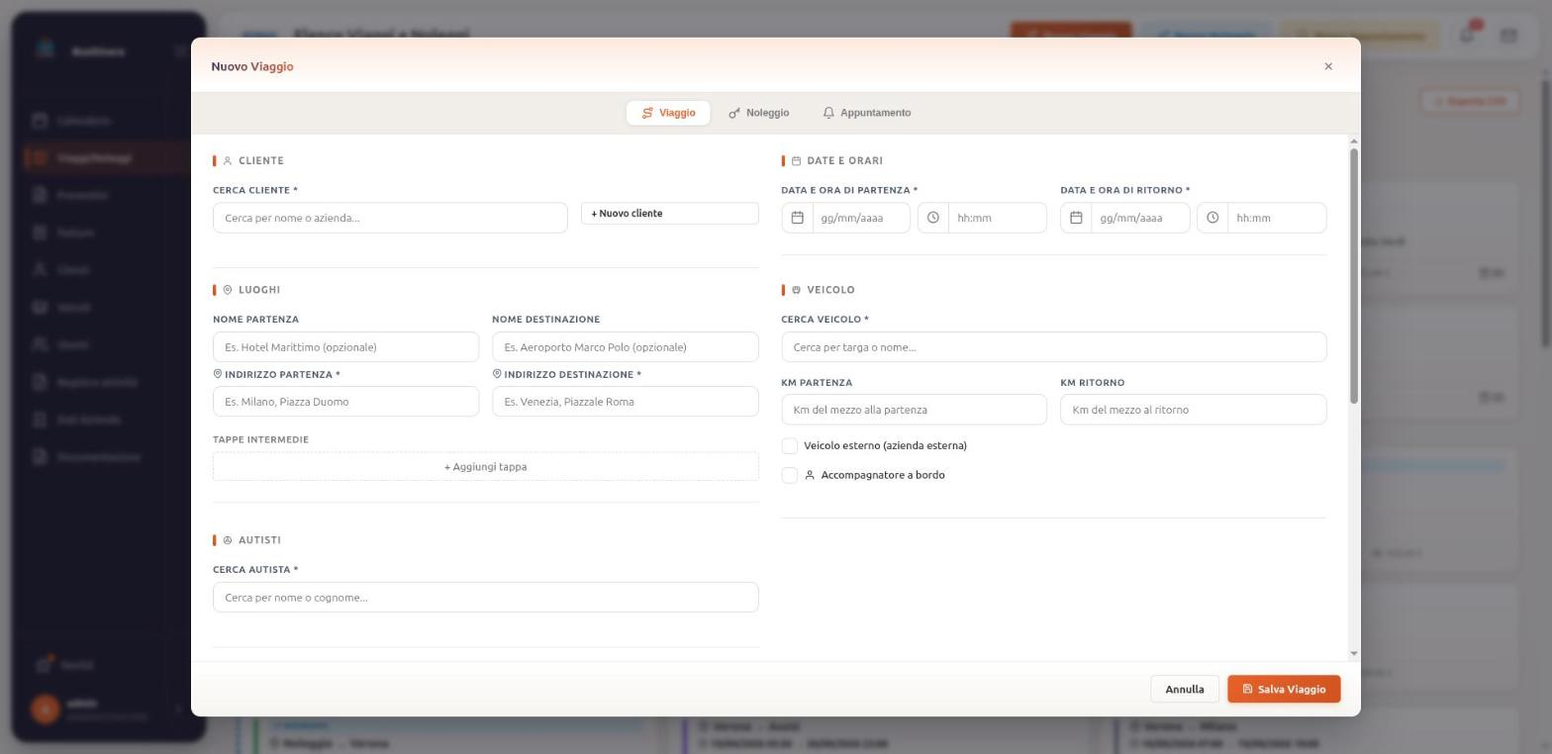
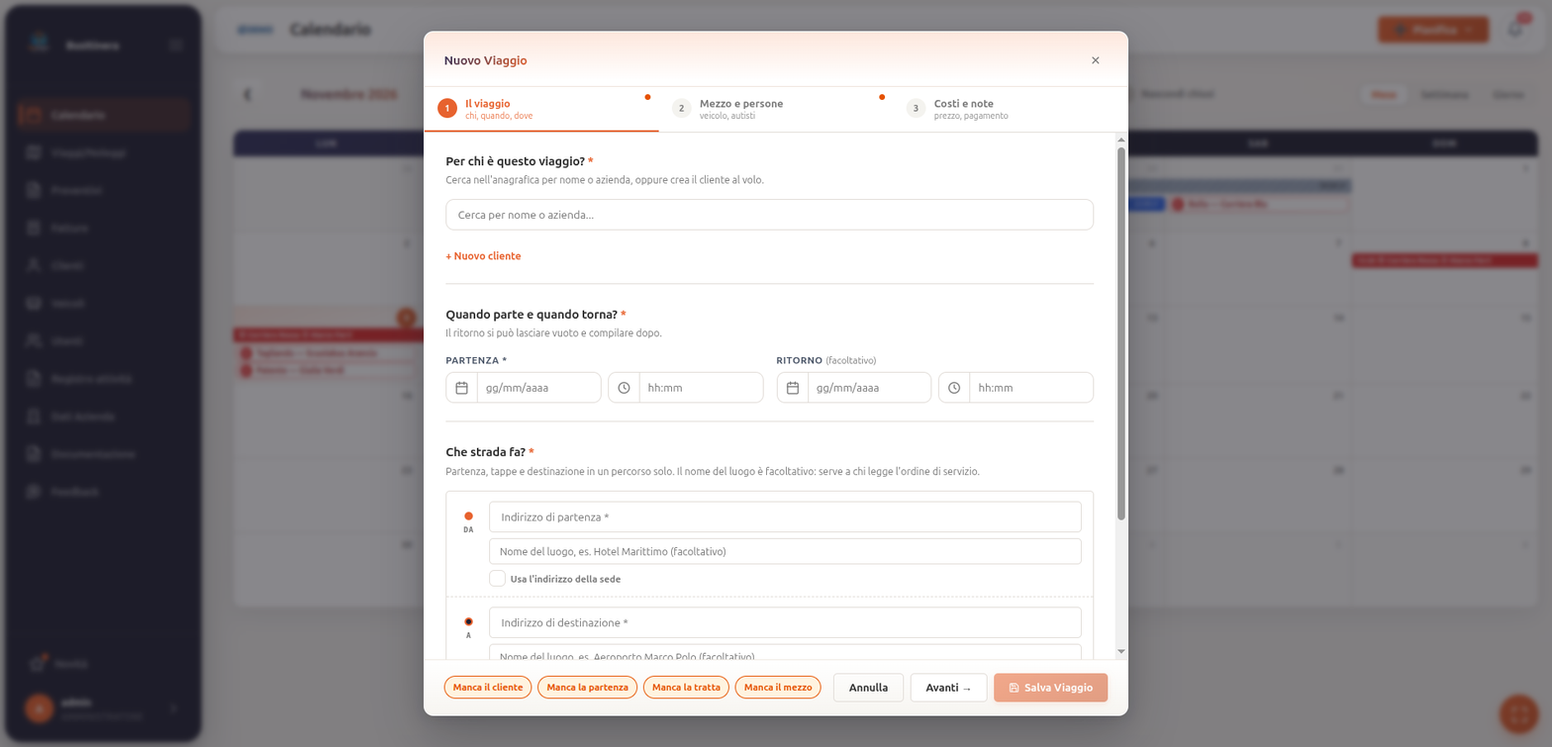
feat: update functionality descriptions and add new features for version 1.38

diff --git a/public/funzionalita.html b/public/funzionalita.html
@@ -353,9 +353,13 @@ svg.ic{width:var(--isz,22px);height:var(--isz,22px);flex:none;display:block}
     <div class="grid2">
       <div class="card rv">
         <div class="card-ic ic-o"><svg class="ic" viewBox="0 0 24 24" fill="none" stroke="currentColor" stroke-width="1.7" stroke-linecap="round" stroke-linejoin="round" aria-hidden="true"><rect x="3" y="3.5" width="18" height="13" rx="3"/><path d="M3 10h18M7.5 16.5v1.1M16.5 16.5v1.1"/><circle cx="7.5" cy="19" r="1.5"/><circle cx="16.5" cy="19" r="1.5"/></svg></div>
-        <h3>Creare un viaggio in un colpo solo</h3>
-        <p>Cliente, data e ora, luogo di ritiro, tappe, mezzo, autisti e prezzo: tutto in un unico modulo, senza saltare da una schermata all'altra.</p>
+        <h3>Creare un viaggio in tre passi</h3>
+        <p>Cliente, date e percorso · mezzo e persone · costi e note. Tre schede, non una procedura guidata: restano tutte cliccabili e <strong>Salva è sempre a portata</strong>, così in modifica si va diretti al passo che serve.</p>
         <ul class="clist">
+          <li><svg class="tick-o" width="16" height="16" viewBox="0 0 24 24" fill="none" stroke="currentColor" stroke-width="3" stroke-linecap="round"><path d="M20 6 9 17l-5-5"/></svg>Partenza, tappe e destinazione sono un percorso solo, incolonnato, con le tappe in mezzo come nel viaggio vero</li>
+          <li><svg class="tick-o" width="16" height="16" viewBox="0 0 24 24" fill="none" stroke="currentColor" stroke-width="3" stroke-linecap="round"><path d="M20 6 9 17l-5-5"/></svg>Una barra in fondo riepiloga cliente, data, tratta, mezzo e prezzo mentre scrivi e segna in giallo quello che manca: non lo scopri premendo Salva</li>
+          <li><svg class="tick-o" width="16" height="16" viewBox="0 0 24 24" fill="none" stroke="currentColor" stroke-width="3" stroke-linecap="round"><path d="M20 6 9 17l-5-5"/></svg>Quello che serve di rado — mezzo di un'altra azienda, accompagnatore, chilometri, nota privata — sta dietro un interruttore, e si apre da sé sui viaggi che quei dati ce li hanno</li>
+          <li><svg class="tick-o" width="16" height="16" viewBox="0 0 24 24" fill="none" stroke="currentColor" stroke-width="3" stroke-linecap="round"><path d="M20 6 9 17l-5-5"/></svg>Un interruttore sotto le tappe decide se l'autista avrà le indicazioni stradali su quel percorso: Maps calcola per un'automobile e non conosce sagoma e peso di una corriera, quindi di serie è spento</li>
           <li><svg class="tick-o" width="16" height="16" viewBox="0 0 24 24" fill="none" stroke="currentColor" stroke-width="3" stroke-linecap="round"><path d="M20 6 9 17l-5-5"/></svg>Gli indirizzi si completano da soli mentre scrivi, come su Google Maps</li>
           <li><svg class="tick-o" width="16" height="16" viewBox="0 0 24 24" fill="none" stroke="currentColor" stroke-width="3" stroke-linecap="round"><path d="M20 6 9 17l-5-5"/></svg>Aggiungi tutte le tappe intermedie che vuoi, con orario di arrivo e di ripartenza</li>
           <li><svg class="tick-o" width="16" height="16" viewBox="0 0 24 24" fill="none" stroke="currentColor" stroke-width="3" stroke-linecap="round"><path d="M20 6 9 17l-5-5"/></svg>Partenza o arrivo in sede: una spunta compila l&rsquo;indirizzo al posto tuo</li>
@@ -382,7 +386,7 @@ svg.ic{width:var(--isz,22px);height:var(--isz,22px);flex:none;display:block}
         <h3>Il dettaglio del viaggio, sempre a portata</h3>
         <p>Selezioni un viaggio e vedi tutto: percorso, mezzo, cliente e conti. Con pochi click aggiorni lo stato senza rifare il modulo.</p>
         <ul class="clist">
-          <li><svg class="tick-v" width="16" height="16" viewBox="0 0 24 24" fill="none" stroke="currentColor" stroke-width="3" stroke-linecap="round"><path d="M20 6 9 17l-5-5"/></svg>Percorso apribile su Google Maps per la navigazione</li>
+          <li><svg class="tick-v" width="16" height="16" viewBox="0 0 24 24" fill="none" stroke="currentColor" stroke-width="3" stroke-linecap="round"><path d="M20 6 9 17l-5-5"/></svg>Percorso apribile su Google Maps, se le indicazioni sono state accese per quel viaggio</li>
           <li><svg class="tick-v" width="16" height="16" viewBox="0 0 24 24" fill="none" stroke="currentColor" stroke-width="3" stroke-linecap="round"><path d="M20 6 9 17l-5-5"/></svg>Riepilogo economico: prezzo base, extra e totale</li>
           <li><svg class="tick-v" width="16" height="16" viewBox="0 0 24 24" fill="none" stroke="currentColor" stroke-width="3" stroke-linecap="round"><path d="M20 6 9 17l-5-5"/></svg>Segni con un tocco: fatturato, pagato, ordine di servizio creato</li>
           <li><svg class="tick-v" width="16" height="16" viewBox="0 0 24 24" fill="none" stroke="currentColor" stroke-width="3" stroke-linecap="round"><path d="M20 6 9 17l-5-5"/></svg>Telefono ed email del cliente cliccabili</li>
@@ -393,7 +397,8 @@ svg.ic{width:var(--isz,22px);height:var(--isz,22px);flex:none;display:block}
         <h3>Non solo viaggi: noleggi e appuntamenti</h3>
         <p>Gestisci nello stesso posto i noleggi dei mezzi e gli appuntamenti (revisioni, manutenzioni), con le stesse protezioni anti-sovrapposizione.</p>
         <ul class="clist">
-          <li><svg class="tick-g" width="16" height="16" viewBox="0 0 24 24" fill="none" stroke="currentColor" stroke-width="3" stroke-linecap="round"><path d="M20 6 9 17l-5-5"/></svg>Noleggi con ritiro e riconsegna: date, orari, luoghi, contratto e prezzo</li>
+          <li><svg class="tick-g" width="16" height="16" viewBox="0 0 24 24" fill="none" stroke="currentColor" stroke-width="3" stroke-linecap="round"><path d="M20 6 9 17l-5-5"/></svg>Noleggi con ritiro e riconsegna: date, orari, luoghi, contratto e prezzo, negli stessi tre passi del viaggio e con la stessa barra di riepilogo</li>
+          <li><svg class="tick-g" width="16" height="16" viewBox="0 0 24 24" fill="none" stroke="currentColor" stroke-width="3" stroke-linecap="round"><path d="M20 6 9 17l-5-5"/></svg>I chilometri del noleggio stanno dietro un interruttore, perché di solito si compilano alla riconsegna; scegliendo il mezzo si precompilano da soli e l'interruttore si apre</li>
           <li><svg class="tick-g" width="16" height="16" viewBox="0 0 24 24" fill="none" stroke="currentColor" stroke-width="3" stroke-linecap="round"><path d="M20 6 9 17l-5-5"/></svg>Senza conducente: registri chi è autorizzato a guidare, con i dati della patente</li>
           <li><svg class="tick-g" width="16" height="16" viewBox="0 0 24 24" fill="none" stroke="currentColor" stroke-width="3" stroke-linecap="round"><path d="M20 6 9 17l-5-5"/></svg>Livello di carburante alla consegna, per sapere a quanto va riconsegnato</li>
           <li><svg class="tick-g" width="16" height="16" viewBox="0 0 24 24" fill="none" stroke="currentColor" stroke-width="3" stroke-linecap="round"><path d="M20 6 9 17l-5-5"/></svg>Un mezzo a noleggio non risulta libero per un viaggio nello stesso periodo</li>
@@ -420,7 +425,7 @@ svg.ic{width:var(--isz,22px);height:var(--isz,22px);flex:none;display:block}
     <div class="center" style="margin-bottom:56px">
       <div class="eyebrow or">Preventivi</div>
       <h2 class="h2 rv">Dal preventivo alla conferma d'ordine, senza riscrivere nulla</h2>
-      <p class="sub rv d1">Prepari l'offerta al cliente, la stampi come documento professionale e, quando la accetta, la trasformi nel viaggio reale con un clic.</p>
+      <p class="sub rv d1">Prepari l'offerta al cliente, la stampi come documento professionale e, quando la accetta, la trasformi nel viaggio reale con un clic. Il modulo è diviso negli stessi tre passi degli altri: <strong>Il cliente · I viaggi (o I noleggi) · Costi e validità</strong>.</p>
     </div>
     <div class="grid2">
       <div class="card rv">
@@ -432,6 +437,7 @@ svg.ic{width:var(--isz,22px);height:var(--isz,22px);flex:none;display:block}
           <li><svg class="tick-o" width="16" height="16" viewBox="0 0 24 24" fill="none" stroke="currentColor" stroke-width="3" stroke-linecap="round"><path d="M20 6 9 17l-5-5"/></svg>Ricerca per numero, cliente o tratta, con filtro per stato</li>
           <li><svg class="tick-o" width="16" height="16" viewBox="0 0 24 24" fill="none" stroke="currentColor" stroke-width="3" stroke-linecap="round"><path d="M20 6 9 17l-5-5"/></svg>Cliente scelto dall'anagrafica, senza riscrivere i dati</li>
           <li><svg class="tick-o" width="16" height="16" viewBox="0 0 24 24" fill="none" stroke="currentColor" stroke-width="3" stroke-linecap="round"><path d="M20 6 9 17l-5-5"/></svg>Preventivo multi-viaggio: più tratte in un unico documento, ognuna con i suoi servizi</li>
+          <li><svg class="tick-o" width="16" height="16" viewBox="0 0 24 24" fill="none" stroke="currentColor" stroke-width="3" stroke-linecap="round"><path d="M20 6 9 17l-5-5"/></svg>La scelta fra viaggio e noleggio sta sopra le schede e cambia le etichette del secondo passo: è la natura del documento, non uno dei passi</li>
         </ul>
       </div>
       <div class="card rv d1">
@@ -527,7 +533,7 @@ svg.ic{width:var(--isz,22px);height:var(--isz,22px);flex:none;display:block}
         <h2 class="h2">Il telefono diventa il cruscotto, per chi guida e per chi gestisce</h2>
         <p class="sub">Due viste dedicate allo schermo piccolo: l&rsquo;autista vede i propri viaggi, titolari e operatori la giornata dell&rsquo;azienda. Semplici, pulite, sempre in tasca.</p>
         <div class="dlist">
-          <div class="ditem"><div class="dicon di-g"><svg class="ic" viewBox="0 0 24 24" fill="none" stroke="currentColor" stroke-width="1.7" stroke-linecap="round" stroke-linejoin="round" aria-hidden="true"><circle cx="12" cy="12" r="8.6"/><path d="M10.3 8.9 15.3 12l-5 3.1z"/></svg></div><div><h4>Il viaggio in corso, evidenziato</h4><p>La tappa di partenza, le soste e l'arrivo in ordine. Ogni indirizzo è un pulsante che apre la navigazione su Google Maps.</p></div></div>
+          <div class="ditem"><div class="dicon di-g"><svg class="ic" viewBox="0 0 24 24" fill="none" stroke="currentColor" stroke-width="1.7" stroke-linecap="round" stroke-linejoin="round" aria-hidden="true"><circle cx="12" cy="12" r="8.6"/><path d="M10.3 8.9 15.3 12l-5 3.1z"/></svg></div><div><h4>Il viaggio in corso, evidenziato</h4><p>La tappa di partenza, le soste e l'arrivo in ordine. Se chi ha pianificato il viaggio ha acceso le indicazioni, sotto ogni luogo compare un pulsante «Indicazioni Maps» che apre la navigazione.</p></div></div>
           <div class="ditem"><div class="dicon di-o"><svg class="ic" viewBox="0 0 24 24" fill="none" stroke="currentColor" stroke-width="1.7" stroke-linecap="round" stroke-linejoin="round" aria-hidden="true"><circle cx="12" cy="13.6" r="7.5"/><path d="M12 10v3.6l2.3 1.4"/><path d="M9.4 2.6h5.2"/></svg></div><div><h4>Conto alla rovescia sul prossimo viaggio</h4><p>“In partenza tra 45 minuti”, aggiornato in automatico. L'autista sa sempre quando muoversi.</p></div></div>
           <div class="ditem"><div class="dicon di-v"><svg class="ic" viewBox="0 0 24 24" fill="none" stroke="currentColor" stroke-width="1.7" stroke-linecap="round" stroke-linejoin="round" aria-hidden="true"><rect x="4.5" y="10.4" width="15" height="10.6" rx="2.6"/><path d="M8 10.4V7.6a4 4 0 0 1 8 0v2.8M12 14.6v2.4"/></svg></div><div><h4>Solo ciò che gli serve</h4><p>Prezzi, pagamenti e dati riservati non sono visibili all'autista. Meno telefonate del tipo “dove devo andare?” e “a che ora?”.</p></div></div>
           <div class="ditem"><div class="dicon di-b"><svg class="ic" viewBox="0 0 24 24" fill="none" stroke="currentColor" stroke-width="1.7" stroke-linecap="round" stroke-linejoin="round" aria-hidden="true"><path d="M16.3 2.9 21.1 7.7a1.3 1.3 0 0 1 0 1.9L9.6 21.1a1.3 1.3 0 0 1-1.9 0L2.9 16.3a1.3 1.3 0 0 1 0-1.9L14.4 2.9a1.3 1.3 0 0 1 1.9 0z"/><path d="M12.6 4.7 14.9 7M9.9 7.4l2.3 2.3M7.2 10.1l2.3 2.3M4.5 12.8l2.3 2.3"/></svg></div><div><h4>Ordine di servizio e chilometri, dal telefono</h4><p>Per i viaggi in corso l’autista apre l’ordine di servizio e inserisce i chilometri di partenza e ritorno: finiscono subito nel viaggio, senza passare dall’ufficio.</p></div></div>
@@ -547,7 +553,7 @@ svg.ic{width:var(--isz,22px);height:var(--isz,22px);flex:none;display:block}
           </div>
           <figcaption>
             <div class="pd-t">La vista dell&rsquo;autista</div>
-            <div class="pd-s">Vista Giorno: il viaggio in corso in evidenza, gli indirizzi che aprono il navigatore, i chilometri e l&rsquo;ordine di servizio. Mese e settimana con tutti i viaggi, e un tocco per ingrandire.</div>
+            <div class="pd-s">Vista Giorno: il viaggio in corso in evidenza, i pulsanti delle indicazioni dove sono stati accesi, i chilometri e l&rsquo;ordine di servizio. Mese e settimana con tutti i viaggi, e un tocco per ingrandire.</div>
           </figcaption>
         </figure>
         <figure>
@@ -758,7 +764,7 @@ svg.ic{width:var(--isz,22px);height:var(--isz,22px);flex:none;display:block}
     <div class="center" style="margin-bottom:56px">
       <div class="eyebrow gr">Carburante</div>
       <h2 class="h2 rv">Il pieno lo registra chi lo fa, dal distributore</h2>
-      <p class="sub rv d1">Gli scontrini finiscono in un cassetto e qualcuno li ribatte settimane dopo, quando non si ricorda più a quale viaggio appartenessero. Qui il pieno si segna mentre si è ancora alla pompa, e i conti si fanno da soli.</p>
+      <p class="sub rv d1">Gli scontrini finiscono in un cassetto e qualcuno li ribatte settimane dopo, quando non si ricorda più a quale viaggio appartenessero. Qui il pieno si segna mentre si è ancora alla pompa, e i conti si fanno da soli. Chi ha la cisterna in sede fa ancora meno: scrive i litri, e il costo lo calcola il gestionale.</p>
     </div>
     <div class="grid2">
       <div class="card rv">
@@ -770,6 +776,8 @@ svg.ic{width:var(--isz,22px);height:var(--isz,22px);flex:none;display:block}
           <li><svg class="tick-g" width="16" height="16" viewBox="0 0 24 24" fill="none" stroke="currentColor" stroke-width="3" stroke-linecap="round"><path d="M20 6 9 17l-5-5"/></svg>Il prezzo al litro si calcola mentre scrivi, con un avviso se esce da ogni scala plausibile — è il modo più veloce per vedere una virgola sbagliata</li>
           <li><svg class="tick-g" width="16" height="16" viewBox="0 0 24 24" fill="none" stroke="currentColor" stroke-width="3" stroke-linecap="round"><path d="M20 6 9 17l-5-5"/></svg>Se al distributore la rete non c'è, quello che hai scritto resta come bozza sul telefono e lo ritrovi con «Riprendi»</li>
           <li><svg class="tick-g" width="16" height="16" viewBox="0 0 24 24" fill="none" stroke="currentColor" stroke-width="3" stroke-linecap="round"><path d="M20 6 9 17l-5-5"/></svg>Sotto il modulo ci sono gli ultimi tre pieni di quel mezzo, chiunque li abbia fatti: serve a non rifare un pieno appena fatto da un collega</li>
+          <li><svg class="tick-g" width="16" height="16" viewBox="0 0 24 24" fill="none" stroke="currentColor" stroke-width="3" stroke-linecap="round"><path d="M20 6 9 17l-5-5"/></svg>Spunta <strong>«Rifornimento in sede»</strong> per chi ha la cisterna: spariscono costo e distributore, restano chilometri e litri. Il prezzo è quello dichiarato nei dati dell'azienda, scelto in base all'alimentazione del mezzo</li>
+          <li><svg class="tick-g" width="16" height="16" viewBox="0 0 24 24" fill="none" stroke="currentColor" stroke-width="3" stroke-linecap="round"><path d="M20 6 9 17l-5-5"/></svg>La spunta compare solo dove un prezzo c'è: un prezzo lasciato vuoto vale «in sede questo carburante non si eroga»</li>
         </ul>
       </div>
       <div class="card rv d1">
@@ -786,7 +794,9 @@ svg.ic{width:var(--isz,22px);height:var(--isz,22px);flex:none;display:block}
     </div>
     <figure class="shot shot-single rv d2" style="max-width:860px"><img class="zoom" src="images/rifornimenti.png" data-cap="Veicoli &rarr; Rifornimenti: spesa, prezzo medio, chilometri e consumi del periodo" alt="Storico dei rifornimenti con i conti del periodo" loading="lazy"><figcaption>Veicoli &rarr; Rifornimenti: i conti del periodo in cima, ogni pieno con imponibile, prezzo al litro e servizio collegato</figcaption></figure>
 
-    <p class="center rv d2" style="margin-top:36px;color:var(--muted);font-size:.95rem;max-width:720px;margin-left:auto;margin-right:auto">Un autista corregge i propri rifornimenti per <strong style="color:var(--ink)">48 ore</strong>; dopo, quella riga è un dato su cui qualcuno ha fatto i conti e serve un amministratore. Ogni inserimento, modifica ed eliminazione resta nel registro attività.</p>
+    <p class="center rv d2" style="margin-top:36px;color:var(--muted);font-size:.95rem;max-width:760px;margin-left:auto;margin-right:auto"><strong style="color:var(--ink)">Il prezzo del carburante in sede non arriva al telefono dell'autista.</strong> Non è nascosto in interfaccia, dove basterebbe un po' di curiosità per leggerlo: non viene proprio mandato. L'autista manda litri e spunta, il conto lo fa il server, e un costo mandato lo stesso viene ignorato — così non lo si può nemmeno dedurre a tentativi. L'amministratore invece vede tutto: costo, imponibile e prezzo al litro.</p>
+
+    <p class="center rv d2" style="margin-top:18px;color:var(--muted);font-size:.95rem;max-width:720px;margin-left:auto;margin-right:auto">Un autista corregge i propri rifornimenti per <strong style="color:var(--ink)">48 ore</strong>; dopo, quella riga è un dato su cui qualcuno ha fatto i conti e serve un amministratore. Ogni inserimento, modifica ed eliminazione resta nel registro attività.</p>
   </div>
 </section>
 
@@ -850,7 +860,9 @@ svg.ic{width:var(--isz,22px);height:var(--isz,22px);flex:none;display:block}
         <h3>I cartelli si fanno per tutta la flotta in una volta</h3>
         <p>Perché il caso vero non è stampare un cartello: è attrezzare la flotta una volta sola, col laminatore acceso.</p>
         <ul class="clist">
-          <li><svg class="tick-b" width="16" height="16" viewBox="0 0 24 24" fill="none" stroke="currentColor" stroke-width="3" stroke-linecap="round"><path d="M20 6 9 17l-5-5"/></svg>Spunti i mezzi — o tutti — e ne esce un documento <strong>A5, una pagina per mezzo</strong>, da stampare o salvare in PDF</li>
+          <li><svg class="tick-b" width="16" height="16" viewBox="0 0 24 24" fill="none" stroke="currentColor" stroke-width="3" stroke-linecap="round"><path d="M20 6 9 17l-5-5"/></svg>Spunti i mezzi — o tutti — e ne esce un documento <strong>A4, una pagina per mezzo</strong>, da stampare o salvare in PDF</li>
+          <li><svg class="tick-b" width="16" height="16" viewBox="0 0 24 24" fill="none" stroke="currentColor" stroke-width="3" stroke-linecap="round"><path d="M20 6 9 17l-5-5"/></svg>Il QR è grande 88mm, perché la distanza vera da cui un passeggero seduto lo guarda è due metri. Il logo dell'azienda è in evidenza e il nome del mezzo si legge in basso, per chi attacca i cartelli e non deve sbagliare bus</li>
+          <li><svg class="tick-b" width="16" height="16" viewBox="0 0 24 24" fill="none" stroke="currentColor" stroke-width="3" stroke-linecap="round"><path d="M20 6 9 17l-5-5"/></svg>Un interruttore sulla riga di ogni mezzo sospende la raccolta solo per quello: il bus in officina, quello appena venduto, quello col cartello staccato. Quello generale resta e comanda su tutto</li>
           <li><svg class="tick-b" width="16" height="16" viewBox="0 0 24 24" fill="none" stroke="currentColor" stroke-width="3" stroke-linecap="round"><path d="M20 6 9 17l-5-5"/></svg>Il cartello porta il nome e il logo della tua azienda, la domanda grande e tre righe che smontano i motivi per cui di solito una recensione non la si lascia</li>
           <li><svg class="tick-b" width="16" height="16" viewBox="0 0 24 24" fill="none" stroke="currentColor" stroke-width="3" stroke-linecap="round"><path d="M20 6 9 17l-5-5"/></svg>L'elenco è anche una diagnosi: dice quali cartelli stanno portando voti e quali no. «Creato, nessuna scansione» dopo settimane vuol dire quasi sempre che si è staccato</li>
           <li><svg class="tick-b" width="16" height="16" viewBox="0 0 24 24" fill="none" stroke="currentColor" stroke-width="3" stroke-linecap="round"><path d="M20 6 9 17l-5-5"/></svg>Se un codice finisce dove non deve, lo rigeneri: i cartelli vecchi di quel mezzo smettono di funzionare, i voti già ricevuti restano</li>

diff --git a/public/novita.html b/public/novita.html
@@ -330,6 +330,91 @@ svg.ic{width:var(--isz,22px);height:var(--isz,22px);flex:none;display:block}
       <li class="tl-item rv">
         <div class="tl-marker"></div>
         <div class="card tl-card">
+          <div class="tl-head"><span class="tl-ver">Versione 1.38</span><span class="tl-date">Novembre 2026</span></div>
+          <h3>Le indicazioni stradali si accendono un viaggio alla volta</h3>
+          <p>Sul telefono dell'autista l'indirizzo di destinazione era un collegamento: si toccava e si apriva Google Maps. Ma il percorso che Maps calcola è quello di un'automobile, e non sa né quanto è alta né quanto pesa una corriera. Chi lo segue e rovina il mezzo poi dice, con una certa ragione, che la strada gliel'ha data il gestionale. Ora quel collegamento non nasce più da solo: lo si accende viaggio per viaggio, quando il percorso è adatto al mezzo che lo fa.</p>
+          <ul class="clist">
+            <li><strong>Un interruttore nel modulo del viaggio, subito sotto le tappe</strong>, spento di serie. Chi pianifica il viaggio è anche chi sa se quella strada una corriera la può fare: la decisione sta lì, non nelle impostazioni generali</li>
+            <li><strong>Acceso, sul telefono compare un pulsante «Indicazioni Maps»</strong>: uno nella scheda del viaggio, verso la destinazione, e uno per ogni punto nella vista del viaggio in corso, che è quella dove l'autista naviga davvero tappa per tappa</li>
+            <li><strong>Il nome del luogo non è più cliccabile in nessun caso</strong>: o non c'è collegamento, o c'è un pulsante che dice cosa fa. Un pulsante con scritto «Indicazioni Maps» non si preme credendo di toccare un'etichetta</li>
+            <li><strong>Spento, il collegamento non esiste nemmeno in ufficio</strong>: toglierlo solo all'autista avrebbe lasciato in piedi la strada per cui il percorso arriva comunque, copiato da una schermata del gestionale</li>
+            <li><strong>I viaggi già in archivio restano senza indicazioni</strong> finché qualcuno non li apre e accende l'interruttore. È il valore prudente applicato allo storico, non una dimenticanza</li>
+          </ul>
+        </div>
+      </li>
+
+      <li class="tl-item rv">
+        <div class="tl-marker"></div>
+        <div class="card tl-card">
+          <div class="tl-head"><span class="tl-ver">Versione 1.37</span><span class="tl-date">Novembre 2026</span></div>
+          <h3>Il cartello del QR diventa A4, e la raccolta si spegne un mezzo alla volta</h3>
+          <p>Due cose che la raccolta dei feedback, nata nella 1.32, non aveva ancora: un cartello che si legga dal fondo del pullman e un modo di sospendere un singolo mezzo. Prima l'unico comando era generale, e per smettere di raccogliere da un bus in officina o appena venduto bisognava spegnere tutta la flotta.</p>
+          <ul class="clist">
+            <li><strong>Un interruttore sulla riga di ogni mezzo</strong>, nella scheda Cartelli QR. Quello generale resta e comanda su tutto: spento, non si raccoglie da nessuna parte. Il nuovo è più fine, per il mezzo fermo, venduto o col cartello staccato</li>
+            <li><strong>Il cartello passa da A5 ad A4</strong>: il QR era 66mm e da due metri — la distanza vera da cui un passeggero seduto lo guarda — era al limite del leggibile. Ora è 88mm, e il codice è generato più grande alla fonte, perché ingrandire un'immagine piccola la sgrana</li>
+            <li><strong>Il logo dell'azienda è due volte e mezza più grande</strong>, non solo scalato col foglio: in A5 era una miniatura in un angolo</li>
+            <li><strong>Il nome del mezzo in basso a sinistra si legge davvero</strong>: era grigio chiaro e piccolo come la firma dell'app, e serve a chi attacca i cartelli per non sbagliare bus</li>
+            <li><strong>Un cartello, una pagina</strong>: prima ne usciva una seconda bianca dietro ognuno</li>
+            <li><strong>Un mezzo sospeso risponde come un mezzo che non esiste.</strong> Se avesse risposto in modo diverso, chi prova codici a caso avrebbe saputo di averne trovato uno buono</li>
+          </ul>
+        </div>
+      </li>
+
+      <li class="tl-item rv">
+        <div class="tl-marker"></div>
+        <div class="card tl-card">
+          <div class="tl-head"><span class="tl-ver">Versione 1.36</span><span class="tl-date">Novembre 2026</span></div>
+          <h3>Il carburante di casa: l'autista scrive i litri, il costo lo fa il gestionale</h3>
+          <p>Chi ha la cisterna in sede si trovava davanti un modulo che chiedeva il costo e il distributore, cioè due cose che in sede non esistono o che l'autista non deve sapere. Ora c'è una spunta: l'autista mette i chilometri e i litri, il prezzo al litro è quello dichiarato nei dati dell'azienda e il conto lo fa il programma.</p>
+          <ul class="clist">
+            <li><strong>Un riquadro nuovo nei Dati Azienda</strong>, «Siti e carburante in sede», con sito web e link del tracking — che sono indirizzi di servizi esterni, non recapiti — e i quattro prezzi: benzina, diesel e GPL in euro al litro, elettrico in euro al kWh</li>
+            <li><strong>L'alimentazione diventa un dato del mezzo</strong> (diesel, benzina, GPL, elettrico), accanto al tipo: è lei a decidere quale dei quattro prezzi vale per quel veicolo</li>
+            <li><strong>Spunta «Rifornimento in sede» nel modulo di rifornimento</strong>: spuntandola spariscono Costo e Distributore, perché il primo lo calcola il gestionale e il secondo in sede è la sede. Restano i chilometri e i litri</li>
+            <li><strong>Se per quell'alimentazione non c'è un prezzo, la spunta non compare.</strong> Un prezzo lasciato vuoto vale «in sede questo carburante non si eroga», e i mezzi senza alimentazione dichiarata non la vedono affatto</li>
+            <li><strong>Il prezzo aziendale non arriva al telefono di chi non deve conoscerlo.</strong> Non è nascosto in interfaccia: non viene proprio mandato. Il conto lo fa il server, e un costo mandato lo stesso viene ignorato, così non lo si può nemmeno dedurre a tentativi. L'amministratore invece vede tutto, costo e prezzo al litro</li>
+            <li><strong>Il costo si congela nella riga</strong>: cambiando domani il prezzo in sede, i rifornimenti di ieri non si riscrivono</li>
+            <li><strong>Impaginazione dei Dati Azienda rifatta</strong>: la pagina aveva tre buchi veri, fino a 337px di spazio morto accanto a una card bassa. Ora Contatti e Siti stanno impilati nella stessa colonna, Testi dei documenti e Banche prendono tutta la riga, e la pagina è un terzo più corta</li>
+          </ul>
+        </div>
+      </li>
+
+      <li class="tl-item rv">
+        <div class="tl-marker"></div>
+        <div class="card tl-card">
+          <div class="tl-head"><span class="tl-ver">Versione 1.35</span><span class="tl-date">Novembre 2026</span></div>
+          <h3>Anche noleggi e preventivi si compilano in tre passi</h3>
+          <p>Quello che nella 1.34 era successo al modulo del viaggio arriva al noleggio e ai preventivi di entrambi. Stessa struttura, stesso modo di lavorare: tre schede, un riepilogo in fondo che dice cosa manca, e nessun campo nascosto a chi quel dato ce l'ha già.</p>
+          <ul class="clist">
+            <li><strong>Nuovo noleggio in tre passi</strong>: Il noleggio (cliente, periodo, ritiro e riconsegna) · Mezzo e utilizzatori · Costi e note. Ritiro e riconsegna diventano un blocco solo, con i pallini come il percorso del viaggio</li>
+            <li><strong>Nuovo preventivo in tre passi</strong>, uguali per i due tipi: Il cliente · I viaggi (o I noleggi) · Costi e validità. La scelta fra viaggio e noleggio non è un passo e sta sopra le schede, perché cambia la natura del documento</li>
+            <li><strong>I chilometri del noleggio stanno dietro un interruttore</strong>, perché di solito si compilano alla riconsegna; scegliendo il mezzo si precompilano da soli, e in quel caso l'interruttore si apre da sé — un campo compilato dentro un blocco chiuso finirebbe nel salvataggio senza che nessuno l'abbia visto</li>
+            <li><strong>«Come paga» è una coppia di pulsanti</strong> anche su noleggio e preventivo, al posto delle due tendine che si chiamavano quasi uguale</li>
+            <li><strong>Tutti e quattro i moduli hanno ora la stessa larghezza e un'altezza ferma.</strong> Il preventivo si allargava solo per il tipo viaggio, quindi cambiava misura a metà compilazione; e l'altezza, che prima la decideva il contenuto, faceva saltare il riquadro a ogni cambio di scheda</li>
+            <li><strong>Via la barra «Viaggio / Noleggio / Appuntamento» dentro i moduli.</strong> Non era una scelta innocua: cambiare tipo chiudeva il modulo aperto e ne riapriva uno vuoto, buttando via tutto quello che era stato scritto, senza chiedere conferma. Il tipo si sceglie prima, dai tre pulsanti di «Pianifica»</li>
+            <li><strong>«Data e ora riconsegna» non è più segnata come obbligatoria</strong>, perché non lo è: un noleggio senza data di fine il gestionale lo accetta e il calendario dei mezzi lo gestisce già</li>
+          </ul>
+        </div>
+      </li>
+
+      <li class="tl-item rv">
+        <div class="tl-marker"></div>
+        <div class="card tl-card">
+          <div class="tl-head"><span class="tl-ver">Versione 1.34</span><span class="tl-date">Novembre 2026</span></div>
+          <h3>Il modulo del viaggio è diviso in tre passi</h3>
+          <p>Un modulo solo, lunghissimo, con tutto in vista: cliente, date, luoghi, mezzo, autisti, prezzo, servizi, pagamento, note. Chi lo apriva per la prima volta non sapeva da dove cominciare, e chi lo apriva per correggere un prezzo doveva scorrere tutto. Ora è diviso in tre schede, e sono schede, non una procedura guidata: restano tutte cliccabili e Salva è sempre a portata.</p>
+          <ul class="clist">
+            <li><strong>Il viaggio</strong> (cliente, date, percorso) · <strong>Mezzo e persone</strong> · <strong>Costi e note</strong>. In creazione si fanno in ordine; in modifica si va diretti al passo che serve</li>
+            <li><strong>Partenza, tappe e destinazione diventano un percorso solo</strong>, incolonnato, con le tappe numerate in mezzo — dove stanno nel viaggio vero — invece che in un riquadro a parte più in basso</li>
+            <li><strong>Nella riga di ogni luogo l'indirizzo viene prima del nome</strong>: il nome è il facoltativo dei due e sta sotto, più piccolo</li>
+            <li><strong>Quello che serve di rado sta dietro un interruttore</strong>, con una riga che dice a cosa serve: mezzo di un'altra azienda, accompagnatore, chilometri, nota privata. Un viaggio ordinario non li vede mai, ma aprendo un viaggio che quei dati ce li ha l'interruttore si apre da solo</li>
+            <li><strong>Una barra di riepilogo in fondo</strong> mostra cliente, data, tratta, mezzo e prezzo mentre si scrive, segna in giallo quello che manca e tiene Salva spento finché resta qualcosa, con un pallino sul passo da completare. Prima lo si scopriva premendo Salva e leggendo l'errore in cima</li>
+          </ul>
+        </div>
+      </li>
+
+      <li class="tl-item rv">
+        <div class="tl-marker"></div>
+        <div class="card tl-card">
           <div class="tl-head"><span class="tl-ver">Versione 1.33</span><span class="tl-date">Ottobre 2026</span></div>
           <h3>Le fatture dicono cosa è uscito di qui e cosa è stato incassato</h3>
           <p>Una fattura emessa finiva in elenco con un numero e uno stato, e lì si fermava. Se quell'XML era già stato passato al commercialista, se i soldi erano arrivati, se il cliente aveva pagato alla partenza: erano cose che si tenevano a mente o su un foglio a parte. Ora le tiene il gestionale, e lo stato della fattura chiama le cose col loro nome.</p>
